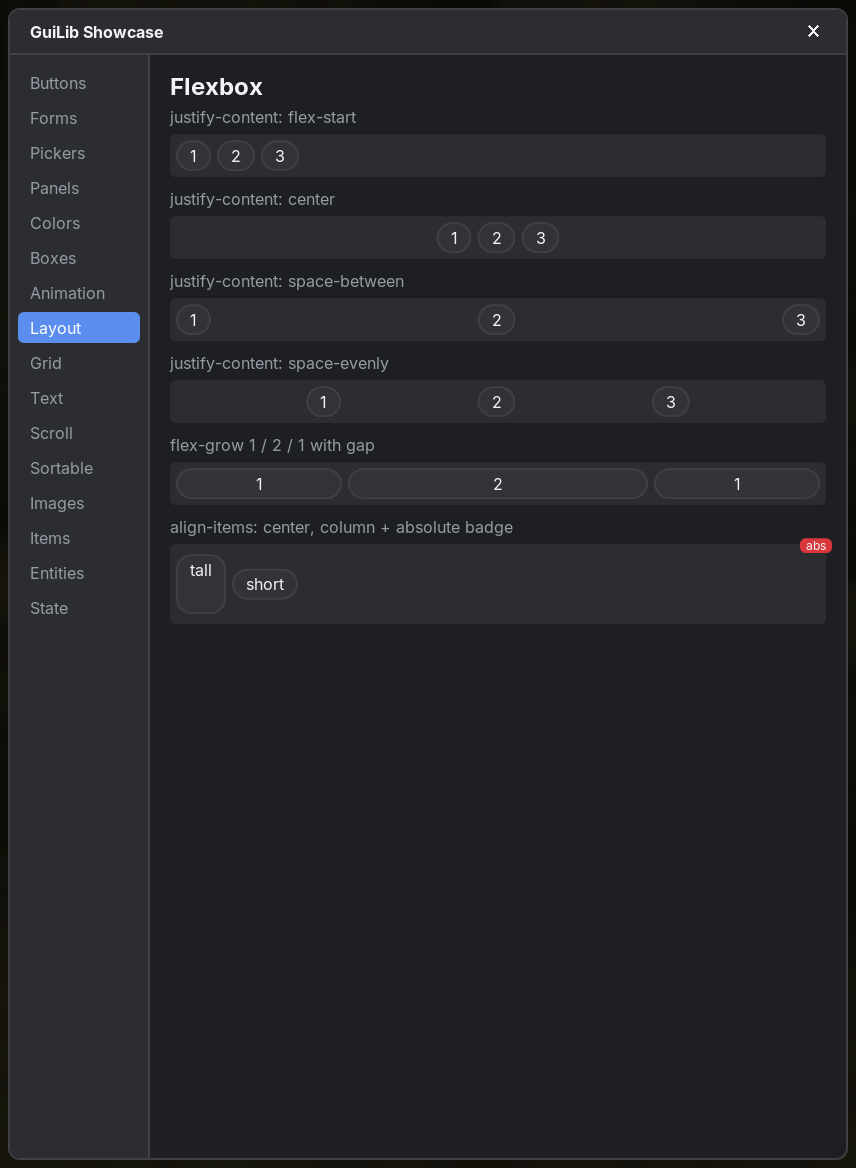
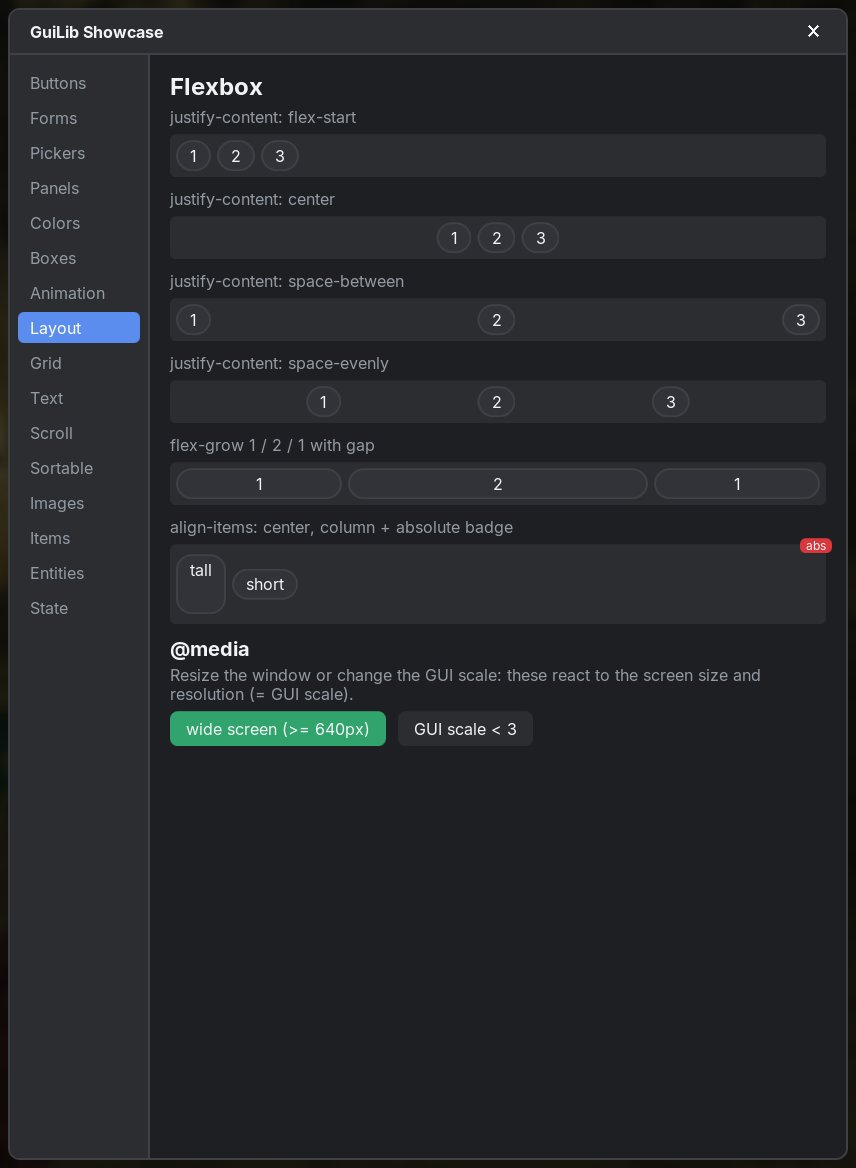
GuiLib docs: @media

Changed region(s): [[0.1822, 0.5548, 0.8808, 0.6473], [0.0, 0.339, 0.0304, 0.4932], [0.486, 0.6164, 0.5771, 0.6473]]

diff --git a/guilib/css.html b/guilib/css.html
@@ -27,7 +27,7 @@
   <main class="content">
     <article>
       <div class="page-head"><div class="eyebrow">Reference</div><h1>CSS</h1><p class="lead">GuiLib implements the parts of CSS that UIs need, with the real cascade. This page lists every supported selector, value and property.</p></div>
-      <h2 id="where-styles-come-from"><a class="anchor" href="#where-styles-come-from">#</a>Where styles come from</h2><ul><li><code>.css</code> files from resources: <code>GuiLib.open(App, stylesheets = listOf(&quot;mymod:ui/app.css&quot;))</code>.</li><li>Inline <code>style</code> strings: <code>div(style = &quot;width: 20px; color: red&quot;)</code>.</li><li>The built-in user-agent stylesheet <code>assets/guilib/css/ua.css</code> (lowest priority) that styles tags and controls.</li><li>Cascade, specificity, <code>!important</code>, inheritance and <code>inherit</code> / <code>initial</code> / <code>unset</code> work like the web.</li><li>Invalid or unsupported CSS is <strong>skipped with a warning</strong> (<code>file:line:col</code>, &quot;did you mean …&quot;), never a crash.</li></ul><h2 id="selectors"><a class="anchor" href="#selectors">#</a>Selectors</h2><div class="table-wrap"><table><thead><tr><th>Kind</th><th>Supported</th></tr></thead><tbody><tr><td>Simple</td><td><code>*</code> <code>tag</code> <code>.class</code> <code>#id</code> <code>[attr]</code> <code>[attr=v]</code> <code>[attr^=v]</code> <code>[attr$=v]</code> <code>[attr*=v]</code>, compounds like <code>button.primary:hover</code></td></tr><tr><td>Combinators</td><td>descendant <code>a b</code>, child <code>a &gt; b</code>, <code>a + b</code>, <code>a ~ b</code>, lists <code>a, b</code></td></tr><tr><td>State</td><td><code>:hover</code> <code>:active</code> <code>:focus</code> <code>:focus-within</code> <code>:disabled</code> <code>:enabled</code> <code>:checked</code></td></tr><tr><td>Structural</td><td><code>:first-child</code> <code>:last-child</code> <code>:only-child</code> <code>:root</code> <code>:not(…)</code> <code>:nth-child()</code> <code>:nth-last-child()</code> <code>:nth-of-type()</code> <code>:nth-last-of-type()</code> (<code>odd</code>, <code>even</code>, <code>3</code>, <code>2n+1</code>, <code>-n+3</code>)</td></tr><tr><td>At-rules</td><td><code>@keyframes</code></td></tr></tbody></table></div><div class="callout warn">Not supported: pseudo-elements (<code>::before</code>), <code>@media</code>, <code>@import</code>, <code>@font-face</code>, <code>:nth-child(… of S)</code>.</div><h2 id="values"><a class="anchor" href="#values">#</a>Values</h2><div class="table-wrap"><table><thead><tr><th>Kind</th><th>Supported</th></tr></thead><tbody><tr><td>Lengths</td><td><code>px</code> (GUI pixels), <code>%</code>, <code>em</code>, <code>rem</code>, <code>vw</code>, <code>vh</code>, <code>vmin</code>, <code>vmax</code>, unitless <code>0</code></td></tr><tr><td>Colors</td><td><code>#rgb</code> <code>#rgba</code> <code>#rrggbb</code> <code>#rrggbbaa</code>, <code>rgb()</code>/<code>rgba()</code> (comma or space syntax), <code>hsl()</code>/<code>hsla()</code>, all named colors, <code>transparent</code>, <code>currentColor</code></td></tr><tr><td>Variables</td><td><code>--name: value</code> with <code>var(--name, fallback)</code></td></tr><tr><td>Math</td><td><code>calc()</code>, <code>min()</code>, <code>max()</code>, <code>clamp()</code>, e.g. <code>width: calc(100% - 2em)</code></td></tr><tr><td>Angles</td><td><code>deg</code> <code>rad</code> <code>grad</code> <code>turn</code></td></tr></tbody></table></div><h2 id="layout"><a class="anchor" href="#layout">#</a>Box model &amp; layout</h2><div class="table-wrap"><table><thead><tr><th>Group</th><th>Properties</th></tr></thead><tbody><tr><td>Box</td><td><code>width</code> <code>height</code> <code>min-width</code> <code>min-height</code> <code>max-width</code> <code>max-height</code> <code>box-sizing</code> <code>margin(-*)</code> <code>padding(-*)</code></td></tr><tr><td>Border</td><td><code>border</code> <code>border-(top|right|bottom|left)</code> <code>border-width</code> <code>border-style</code> <code>border-color</code> <code>border-*-width/-style/-color</code> <code>border-radius</code> <code>border-*-radius</code></td></tr><tr><td>Display</td><td><code>display</code>: <code>block</code> <code>inline</code> <code>inline-block</code> <code>flex</code> <code>inline-flex</code> <code>grid</code> <code>inline-grid</code> <code>none</code></td></tr><tr><td>Position</td><td><code>position</code>: <code>static</code> <code>relative</code> <code>absolute</code> <code>fixed</code>; <code>top</code> <code>right</code> <code>bottom</code> <code>left</code> <code>inset</code> <code>z-index</code></td></tr><tr><td>Overflow</td><td><code>overflow</code> <code>overflow-x</code> <code>overflow-y</code> (<code>visible</code> <code>hidden</code> <code>auto</code> <code>scroll</code>), <code>scrollbar-width</code> (<code>auto</code> <code>thin</code> <code>none</code>), <code>scrollbar-color: &lt;thumb&gt; &lt;track&gt;</code></td></tr><tr><td>Flexbox</td><td><code>flex</code> <code>flex-direction</code> <code>flex-wrap</code> <code>flex-flow</code> <code>flex-grow</code> <code>flex-shrink</code> <code>flex-basis</code> <code>justify-content</code> <code>align-items</code> <code>align-self</code> <code>place-items</code> <code>gap</code> <code>row-gap</code> <code>column-gap</code> <code>order</code>, auto margins</td></tr><tr><td>Grid</td><td><code>grid-template-columns</code> / <code>-rows</code> (<code>px % fr auto min-content max-content minmax() repeat(n | auto-fill | auto-fit, …)</code>), <code>grid-template-areas</code> <code>grid-area</code> <code>grid-row</code> <code>grid-column</code> <code>grid-*-start/-end</code> (lines, negative lines, <code>span n</code>, area names), <code>grid-auto-rows</code> <code>grid-auto-columns</code> <code>grid-auto-flow</code> (<code>row</code> <code>column</code> <code>dense</code>), <code>justify-items</code> <code>justify-self</code> <code>place-self</code></td></tr></tbody></table></div><figure class="shot"><a href="img/grid.png" target="_blank" rel="noopener"><img src="img/grid.png" alt="CSS grid: fr tracks, spans, template areas and auto-fill" loading="lazy"></a><figcaption>CSS grid: fr tracks, spans, template areas and auto-fill</figcaption></figure><figure class="shot"><a href="img/layout.png" target="_blank" rel="noopener"><img src="img/layout.png" alt="Flexbox and positioning" loading="lazy"></a><figcaption>Flexbox and positioning</figcaption></figure><h2 id="text-visuals"><a class="anchor" href="#text-visuals">#</a>Text &amp; visuals</h2><div class="table-wrap"><table><thead><tr><th>Group</th><th>Properties</th></tr></thead><tbody><tr><td>Text</td><td><code>color</code> <code>font-family</code> <code>font-size</code> <code>font-weight</code> <code>font-style</code> <code>line-height</code> <code>text-align</code> <code>white-space</code> <code>text-overflow</code> <code>text-decoration</code> <code>text-shadow</code></td></tr><tr><td>Background</td><td><code>background</code> <code>background-color</code> <code>background-image</code>: comma list of layers (first on top): <code>url(&quot;modid:path.png&quot;)</code>, <code>linear-gradient(…)</code> (angles, <code>to right</code>, stops with positions, hard stops), <code>radial-gradient(…)</code> (<code>circle</code>/<code>ellipse</code>, size keywords, <code>at &lt;position&gt;</code>). Gradients respect <code>border-radius</code>.</td></tr><tr><td>Shadow</td><td><code>box-shadow</code>: <code>none</code> or a comma list of <code>[inset] &lt;x&gt; &lt;y&gt; [&lt;blur&gt; [&lt;spread&gt;]] [&lt;color&gt;]</code> (first on top, color defaults to <code>currentColor</code>). Real Gaussian blur that follows <code>border-radius</code>; outer shadows are never drawn under the box, so translucent backgrounds stay clean. Animatable.</td></tr><tr><td>Visual</td><td><code>opacity</code> <code>visibility</code> <code>object-fit</code></td></tr><tr><td>Interaction</td><td><code>cursor</code> (<code>auto</code> <code>default</code> <code>pointer</code> <code>text</code> <code>not-allowed</code> <code>crosshair</code> <code>move</code> <code>ns-resize</code> <code>ew-resize</code> <code>row-resize</code> <code>col-resize</code> <code>grab</code> <code>grabbing</code>; a drag cursor stays while the left button is held), <code>pointer-events</code>, <code>user-select</code> (parsed only)</td></tr></tbody></table></div><figure class="shot"><a href="img/boxes.png" target="_blank" rel="noopener"><img src="img/boxes.png" alt="Rounded corners, borders, gradients, shadows and opacity, drawn by GuiLib&#x27;s own anti-aliased shader" loading="lazy"></a><figcaption>Rounded corners, borders, gradients, shadows and opacity, drawn by GuiLib&#x27;s own anti-aliased shader</figcaption></figure><h2 id="animation"><a class="anchor" href="#animation">#</a>Animation</h2><p><code>transition</code> (+ <code>-property</code> <code>-duration</code> <code>-timing-function</code> <code>-delay</code>) and <code>animation</code> (+ <code>-name</code> <code>-duration</code> <code>-timing-function</code> <code>-delay</code> <code>-iteration-count</code> <code>-direction</code> <code>-fill-mode</code> <code>-play-state</code>) with <code>@keyframes</code>. Easing: <code>linear</code> <code>ease</code> <code>ease-in</code> <code>ease-out</code> <code>ease-in-out</code> <code>cubic-bezier()</code> <code>steps()</code>.</p><p>Animatable: colors, lengths (also px ↔ % via calc), numbers (<code>opacity</code>, <code>flex-grow</code>, <code>font-size</code> …), radii, <code>line-height</code>, <code>text-shadow</code>, <code>box-shadow</code>, scrollbar colors, gradient stop colors, <code>visibility</code>, <code>transform</code>, <code>transform-origin</code>. Other values switch at 50 % in keyframes and don&#x27;t transition.</p><div class="code"><button class="copy" type="button" aria-label="Copy code">Copy</button><pre><code class="language-css">.card { transition: background-color 150ms, transform 150ms ease-out; }
+      <h2 id="where-styles-come-from"><a class="anchor" href="#where-styles-come-from">#</a>Where styles come from</h2><ul><li><code>.css</code> files from resources: <code>GuiLib.open(App, stylesheets = listOf(&quot;mymod:ui/app.css&quot;))</code>.</li><li>Inline <code>style</code> strings: <code>div(style = &quot;width: 20px; color: red&quot;)</code>.</li><li>The built-in user-agent stylesheet <code>assets/guilib/css/ua.css</code> (lowest priority) that styles tags and controls.</li><li>Cascade, specificity, <code>!important</code>, inheritance and <code>inherit</code> / <code>initial</code> / <code>unset</code> work like the web.</li><li>Invalid or unsupported CSS is <strong>skipped with a warning</strong> (<code>file:line:col</code>, &quot;did you mean …&quot;), never a crash.</li></ul><h2 id="selectors"><a class="anchor" href="#selectors">#</a>Selectors</h2><div class="table-wrap"><table><thead><tr><th>Kind</th><th>Supported</th></tr></thead><tbody><tr><td>Simple</td><td><code>*</code> <code>tag</code> <code>.class</code> <code>#id</code> <code>[attr]</code> <code>[attr=v]</code> <code>[attr^=v]</code> <code>[attr$=v]</code> <code>[attr*=v]</code>, compounds like <code>button.primary:hover</code></td></tr><tr><td>Combinators</td><td>descendant <code>a b</code>, child <code>a &gt; b</code>, <code>a + b</code>, <code>a ~ b</code>, lists <code>a, b</code></td></tr><tr><td>State</td><td><code>:hover</code> <code>:active</code> <code>:focus</code> <code>:focus-within</code> <code>:disabled</code> <code>:enabled</code> <code>:checked</code></td></tr><tr><td>Structural</td><td><code>:first-child</code> <code>:last-child</code> <code>:only-child</code> <code>:root</code> <code>:not(…)</code> <code>:nth-child()</code> <code>:nth-last-child()</code> <code>:nth-of-type()</code> <code>:nth-last-of-type()</code> (<code>odd</code>, <code>even</code>, <code>3</code>, <code>2n+1</code>, <code>-n+3</code>)</td></tr><tr><td>At-rules</td><td><code>@keyframes</code>; <code>@media</code> (nestable): comma lists, <code>not</code>/<code>only</code>, <code>screen</code>/<code>all</code>/<code>print</code>, <code>and</code>/<code>or</code>; features <code>width</code> <code>height</code> <code>aspect-ratio</code> <code>orientation</code> in GUI px, <code>resolution</code> = Minecraft&#x27;s GUI scale (<code>min-resolution: 3dppx</code> or <code>3x</code>), <code>hover</code> (hover), <code>pointer</code> (fine), <code>prefers-reduced-motion</code> (no-preference), <code>prefers-color-scheme</code> (dark); <code>min-</code>/<code>max-</code> prefixes and range syntax <code>(400px &lt;= width &lt; 640px)</code>. Styles update when the window size or GUI scale changes.</td></tr></tbody></table></div><div class="callout warn">Not supported: pseudo-elements (<code>::before</code>), <code>@import</code>, <code>@font-face</code>, <code>@container</code>, <code>@supports</code>, <code>:nth-child(… of S)</code>.</div><h2 id="values"><a class="anchor" href="#values">#</a>Values</h2><div class="table-wrap"><table><thead><tr><th>Kind</th><th>Supported</th></tr></thead><tbody><tr><td>Lengths</td><td><code>px</code> (GUI pixels), <code>%</code>, <code>em</code>, <code>rem</code>, <code>vw</code>, <code>vh</code>, <code>vmin</code>, <code>vmax</code>, unitless <code>0</code></td></tr><tr><td>Colors</td><td><code>#rgb</code> <code>#rgba</code> <code>#rrggbb</code> <code>#rrggbbaa</code>, <code>rgb()</code>/<code>rgba()</code> (comma or space syntax), <code>hsl()</code>/<code>hsla()</code>, all named colors, <code>transparent</code>, <code>currentColor</code></td></tr><tr><td>Variables</td><td><code>--name: value</code> with <code>var(--name, fallback)</code></td></tr><tr><td>Math</td><td><code>calc()</code>, <code>min()</code>, <code>max()</code>, <code>clamp()</code>, e.g. <code>width: calc(100% - 2em)</code></td></tr><tr><td>Angles</td><td><code>deg</code> <code>rad</code> <code>grad</code> <code>turn</code></td></tr></tbody></table></div><h2 id="layout"><a class="anchor" href="#layout">#</a>Box model &amp; layout</h2><div class="table-wrap"><table><thead><tr><th>Group</th><th>Properties</th></tr></thead><tbody><tr><td>Box</td><td><code>width</code> <code>height</code> <code>min-width</code> <code>min-height</code> <code>max-width</code> <code>max-height</code> <code>box-sizing</code> <code>margin(-*)</code> <code>padding(-*)</code></td></tr><tr><td>Border</td><td><code>border</code> <code>border-(top|right|bottom|left)</code> <code>border-width</code> <code>border-style</code> <code>border-color</code> <code>border-*-width/-style/-color</code> <code>border-radius</code> <code>border-*-radius</code></td></tr><tr><td>Display</td><td><code>display</code>: <code>block</code> <code>inline</code> <code>inline-block</code> <code>flex</code> <code>inline-flex</code> <code>grid</code> <code>inline-grid</code> <code>none</code></td></tr><tr><td>Position</td><td><code>position</code>: <code>static</code> <code>relative</code> <code>absolute</code> <code>fixed</code>; <code>top</code> <code>right</code> <code>bottom</code> <code>left</code> <code>inset</code> <code>z-index</code></td></tr><tr><td>Overflow</td><td><code>overflow</code> <code>overflow-x</code> <code>overflow-y</code> (<code>visible</code> <code>hidden</code> <code>auto</code> <code>scroll</code>), <code>scrollbar-width</code> (<code>auto</code> <code>thin</code> <code>none</code>), <code>scrollbar-color: &lt;thumb&gt; &lt;track&gt;</code></td></tr><tr><td>Flexbox</td><td><code>flex</code> <code>flex-direction</code> <code>flex-wrap</code> <code>flex-flow</code> <code>flex-grow</code> <code>flex-shrink</code> <code>flex-basis</code> <code>justify-content</code> <code>align-items</code> <code>align-self</code> <code>place-items</code> <code>gap</code> <code>row-gap</code> <code>column-gap</code> <code>order</code>, auto margins</td></tr><tr><td>Grid</td><td><code>grid-template-columns</code> / <code>-rows</code> (<code>px % fr auto min-content max-content minmax() repeat(n | auto-fill | auto-fit, …)</code>), <code>grid-template-areas</code> <code>grid-area</code> <code>grid-row</code> <code>grid-column</code> <code>grid-*-start/-end</code> (lines, negative lines, <code>span n</code>, area names), <code>grid-auto-rows</code> <code>grid-auto-columns</code> <code>grid-auto-flow</code> (<code>row</code> <code>column</code> <code>dense</code>), <code>justify-items</code> <code>justify-self</code> <code>place-self</code></td></tr></tbody></table></div><figure class="shot"><a href="img/grid.png" target="_blank" rel="noopener"><img src="img/grid.png" alt="CSS grid: fr tracks, spans, template areas and auto-fill" loading="lazy"></a><figcaption>CSS grid: fr tracks, spans, template areas and auto-fill</figcaption></figure><figure class="shot"><a href="img/layout.png" target="_blank" rel="noopener"><img src="img/layout.png" alt="Flexbox and positioning" loading="lazy"></a><figcaption>Flexbox and positioning</figcaption></figure><h2 id="text-visuals"><a class="anchor" href="#text-visuals">#</a>Text &amp; visuals</h2><div class="table-wrap"><table><thead><tr><th>Group</th><th>Properties</th></tr></thead><tbody><tr><td>Text</td><td><code>color</code> <code>font-family</code> <code>font-size</code> <code>font-weight</code> <code>font-style</code> <code>line-height</code> <code>text-align</code> <code>white-space</code> <code>text-overflow</code> <code>text-decoration</code> <code>text-shadow</code></td></tr><tr><td>Background</td><td><code>background</code> <code>background-color</code> <code>background-image</code>: comma list of layers (first on top): <code>url(&quot;modid:path.png&quot;)</code>, <code>linear-gradient(…)</code> (angles, <code>to right</code>, stops with positions, hard stops), <code>radial-gradient(…)</code> (<code>circle</code>/<code>ellipse</code>, size keywords, <code>at &lt;position&gt;</code>). Gradients respect <code>border-radius</code>.</td></tr><tr><td>Shadow</td><td><code>box-shadow</code>: <code>none</code> or a comma list of <code>[inset] &lt;x&gt; &lt;y&gt; [&lt;blur&gt; [&lt;spread&gt;]] [&lt;color&gt;]</code> (first on top, color defaults to <code>currentColor</code>). Real Gaussian blur that follows <code>border-radius</code>; outer shadows are never drawn under the box, so translucent backgrounds stay clean. Animatable.</td></tr><tr><td>Visual</td><td><code>opacity</code> <code>visibility</code> <code>object-fit</code></td></tr><tr><td>Interaction</td><td><code>cursor</code> (<code>auto</code> <code>default</code> <code>pointer</code> <code>text</code> <code>not-allowed</code> <code>crosshair</code> <code>move</code> <code>ns-resize</code> <code>ew-resize</code> <code>row-resize</code> <code>col-resize</code> <code>grab</code> <code>grabbing</code>; a drag cursor stays while the left button is held), <code>pointer-events</code>, <code>user-select</code> (parsed only)</td></tr></tbody></table></div><figure class="shot"><a href="img/boxes.png" target="_blank" rel="noopener"><img src="img/boxes.png" alt="Rounded corners, borders, gradients, shadows and opacity, drawn by GuiLib&#x27;s own anti-aliased shader" loading="lazy"></a><figcaption>Rounded corners, borders, gradients, shadows and opacity, drawn by GuiLib&#x27;s own anti-aliased shader</figcaption></figure><h2 id="animation"><a class="anchor" href="#animation">#</a>Animation</h2><p><code>transition</code> (+ <code>-property</code> <code>-duration</code> <code>-timing-function</code> <code>-delay</code>) and <code>animation</code> (+ <code>-name</code> <code>-duration</code> <code>-timing-function</code> <code>-delay</code> <code>-iteration-count</code> <code>-direction</code> <code>-fill-mode</code> <code>-play-state</code>) with <code>@keyframes</code>. Easing: <code>linear</code> <code>ease</code> <code>ease-in</code> <code>ease-out</code> <code>ease-in-out</code> <code>cubic-bezier()</code> <code>steps()</code>.</p><p>Animatable: colors, lengths (also px ↔ % via calc), numbers (<code>opacity</code>, <code>flex-grow</code>, <code>font-size</code> …), radii, <code>line-height</code>, <code>text-shadow</code>, <code>box-shadow</code>, scrollbar colors, gradient stop colors, <code>visibility</code>, <code>transform</code>, <code>transform-origin</code>. Other values switch at 50 % in keyframes and don&#x27;t transition.</p><div class="code"><button class="copy" type="button" aria-label="Copy code">Copy</button><pre><code class="language-css">.card { transition: background-color 150ms, transform 150ms ease-out; }
 .card:hover { background-color: #333; transform: scale(1.05); }
 
 @keyframes spin { to { transform: rotate(360deg); } }

diff --git a/guilib/differences.html b/guilib/differences.html
@@ -27,7 +27,7 @@
   <main class="content">
     <article>
       <div class="page-head"><div class="eyebrow">Guide</div><h1>Differences from the web</h1><p class="lead">GuiLib follows the web wherever it can. These are the places where it doesn&#x27;t. Read this once; it saves time.</p></div>
-      <h2 id="units-defaults"><a class="anchor" href="#units-defaults">#</a>Units &amp; defaults</h2><ul><li><strong><code>px</code> means GUI pixels</strong> (scaled by Minecraft&#x27;s GUI scale). The default <code>font-size</code> is <strong>8px</strong> and <code>1rem = 8px</code>, so a web value like <code>font-size: 14px</code> is large here; typical UI text is 7–10px.</li><li><code>body</code> <strong>is the screen</strong>: always exactly viewport-sized; there is no <code>html</code>; <code>:root</code> matches <code>body</code>.</li><li><code>box-sizing: border-box</code> is the <strong>default</strong> for everything.</li><li><strong>No margin collapsing</strong>: vertical margins add up.</li><li>The default text color is light (<code>#f2f3f5</code>), the default font Inter.</li><li><code>border-width</code> defaults to 1px; like the web, a border without <code>border-style</code> draws nothing.</li></ul><h2 id="api"><a class="anchor" href="#api">#</a>API</h2><ul><li><code>style</code> is a CSS <strong>string</strong>, not an object. Event handlers are Kotlin lambdas (<code>onClick = { e -&gt; … }</code>).</li><li><code>useEffect { }</code> without deps runs <strong>once</strong> (like <code>[]</code>); there is no &quot;run after every render&quot; variant.</li><li><code>onChange</code> on inputs, selects, checkboxes, switches and sliders fires on every change (React behaviour); sliders also have <code>onChangeEnd</code>.</li></ul><h2 id="rendering"><a class="anchor" href="#rendering">#</a>Rendering</h2><ul><li><code>overflow: hidden</code> clips <strong>rectangularly</strong>. With <code>border-radius</code> on the clipping element, child backgrounds that sit exactly in one of its corners (headers, footers, sidebars) are rounded to match; other content is not cut to the curve.</li><li>Per-side borders on a box with <code>border-radius</code> are drawn as straight strips that stop at the rounded corners. Uniform borders are exact.</li><li>Inline elements (<code>span</code>, <code>code</code>, …) paint background, border and shadow per line like the web; vertical padding/border don&#x27;t change the line height. Use <code>display: inline-block</code> for boxes that must not wrap or need a size.</li><li>Every positioned element (<code>relative</code> / <code>absolute</code> / <code>fixed</code>) is its own paint layer; <code>z-index</code> orders layers among siblings. Use <code>portal { }</code> for things that must be on top of everything. <code>position: fixed</code> ignores ancestors&#x27; <code>transform</code>.</li><li><code>display: inline-block</code>, <code>img</code> and <code>item</code> sit on the text baseline; <code>vertical-align</code> is not supported.</li><li>Flex items have <code>min-width: auto</code> like the web; for ellipsis inside flex, set <code>min-width: 0</code>.</li></ul><h2 id="text"><a class="anchor" href="#text">#</a>Text</h2><ul><li>Minecraft <code>§</code> codes work in all text. Text inputs show what the user types literally (<code>§</code> included).</li><li>No kerning; <code>text-align: justify</code> behaves like <code>left</code>.</li><li>No right-to-left or complex-script shaping. Characters missing from the font (CJK, emoji, …) fall back to Minecraft&#x27;s font.</li><li>Rotated text is drawn at its unrotated resolution (slightly soft).</li></ul><h2 id="not-supported-yet"><a class="anchor" href="#not-supported-yet">#</a>Not supported (yet)</h2><ul><li>3D transforms (a <code>transform</code> containing them is ignored), <code>repeating-*-gradient</code>, <code>conic-gradient</code>.</li><li><code>@media</code>, <code>@import</code>, <code>@font-face</code> (register fonts with <code>FontManager</code>), pseudo-elements (<code>::before</code>), <code>:nth-child(… of S)</code>.</li><li><code>float</code>, <code>align-content</code>, <code>vertical-align</code>, <code>letter-spacing</code>, subgrid, named grid lines. Grid <code>auto-fit</code> behaves like <code>auto-fill</code>.</li><li>Images are resource locations (PNG, SVG or GIF), no URLs.</li></ul>
+      <h2 id="units-defaults"><a class="anchor" href="#units-defaults">#</a>Units &amp; defaults</h2><ul><li><strong><code>px</code> means GUI pixels</strong> (scaled by Minecraft&#x27;s GUI scale). The default <code>font-size</code> is <strong>8px</strong> and <code>1rem = 8px</code>, so a web value like <code>font-size: 14px</code> is large here; typical UI text is 7–10px.</li><li><code>body</code> <strong>is the screen</strong>: always exactly viewport-sized; there is no <code>html</code>; <code>:root</code> matches <code>body</code>.</li><li><code>box-sizing: border-box</code> is the <strong>default</strong> for everything.</li><li><strong>No margin collapsing</strong>: vertical margins add up.</li><li>The default text color is light (<code>#f2f3f5</code>), the default font Inter.</li><li><code>border-width</code> defaults to 1px; like the web, a border without <code>border-style</code> draws nothing.</li></ul><h2 id="api"><a class="anchor" href="#api">#</a>API</h2><ul><li><code>style</code> is a CSS <strong>string</strong>, not an object. Event handlers are Kotlin lambdas (<code>onClick = { e -&gt; … }</code>).</li><li><code>useEffect { }</code> without deps runs <strong>once</strong> (like <code>[]</code>); there is no &quot;run after every render&quot; variant.</li><li><code>onChange</code> on inputs, selects, checkboxes, switches and sliders fires on every change (React behaviour); sliders also have <code>onChangeEnd</code>.</li></ul><h2 id="rendering"><a class="anchor" href="#rendering">#</a>Rendering</h2><ul><li><code>overflow: hidden</code> clips <strong>rectangularly</strong>. With <code>border-radius</code> on the clipping element, child backgrounds that sit exactly in one of its corners (headers, footers, sidebars) are rounded to match; other content is not cut to the curve.</li><li>Per-side borders on a box with <code>border-radius</code> are drawn as straight strips that stop at the rounded corners. Uniform borders are exact.</li><li>Inline elements (<code>span</code>, <code>code</code>, …) paint background, border and shadow per line like the web; vertical padding/border don&#x27;t change the line height. Use <code>display: inline-block</code> for boxes that must not wrap or need a size.</li><li>Every positioned element (<code>relative</code> / <code>absolute</code> / <code>fixed</code>) is its own paint layer; <code>z-index</code> orders layers among siblings. Use <code>portal { }</code> for things that must be on top of everything. <code>position: fixed</code> ignores ancestors&#x27; <code>transform</code>.</li><li><code>display: inline-block</code>, <code>img</code> and <code>item</code> sit on the text baseline; <code>vertical-align</code> is not supported.</li><li>Flex items have <code>min-width: auto</code> like the web; for ellipsis inside flex, set <code>min-width: 0</code>.</li></ul><h2 id="text"><a class="anchor" href="#text">#</a>Text</h2><ul><li>Minecraft <code>§</code> codes work in all text. Text inputs show what the user types literally (<code>§</code> included).</li><li>No kerning; <code>text-align: justify</code> behaves like <code>left</code>.</li><li>No right-to-left or complex-script shaping. Characters missing from the font (CJK, emoji, …) fall back to Minecraft&#x27;s font.</li><li>Rotated text is drawn at its unrotated resolution (slightly soft).</li></ul><h2 id="not-supported-yet"><a class="anchor" href="#not-supported-yet">#</a>Not supported (yet)</h2><ul><li>3D transforms (a <code>transform</code> containing them is ignored), <code>repeating-*-gradient</code>, <code>conic-gradient</code>.</li><li><code>@import</code>, <code>@font-face</code> (register fonts with <code>FontManager</code>), pseudo-elements (<code>::before</code>), <code>:nth-child(… of S)</code>.</li><li><code>float</code>, <code>align-content</code>, <code>vertical-align</code>, <code>letter-spacing</code>, subgrid, named grid lines. Grid <code>auto-fit</code> behaves like <code>auto-fill</code>.</li><li>Images are resource locations (PNG, SVG or GIF), no URLs.</li></ul>
       <nav class="pager"><a class="prev" href="components.html"><span>Previous</span>Components &amp; hooks</a><a class="next" href="recipes.html"><span>Next</span>Recipes</a></nav>
     </article>
     <footer class="footer">GuiLib 0.3.0 · Minecraft 26.1.2 / 26.2 (Fabric) · LGPL-3.0 · Screenshots taken in-game at GUI scale 2.</footer>

diff --git a/docs-src/pages.py b/docs-src/pages.py
@@ -857,8 +857,8 @@ css = Page("css", "CSS", "Reference", (
         ["Combinators", "descendant `a b`, child `a > b`, `a + b`, `a ~ b`, lists `a, b`"],
         ["State", "`:hover` `:active` `:focus` `:focus-within` `:disabled` `:enabled` `:checked`"],
         ["Structural", "`:first-child` `:last-child` `:only-child` `:root` `:not(…)` `:nth-child()` `:nth-last-child()` `:nth-of-type()` `:nth-last-of-type()` (`odd`, `even`, `3`, `2n+1`, `-n+3`)"],
-        ["At-rules", "`@keyframes`"],
-    ]), note("Not supported: pseudo-elements (`::before`), `@media`, `@import`, `@font-face`, `:nth-child(… of S)`.", "warn")),
+        ["At-rules", "`@keyframes`; `@media` (nestable): comma lists, `not`/`only`, `screen`/`all`/`print`, `and`/`or`; features `width` `height` `aspect-ratio` `orientation` in GUI px, `resolution` = Minecraft's GUI scale (`min-resolution: 3dppx` or `3x`), `hover` (hover), `pointer` (fine), `prefers-reduced-motion` (no-preference), `prefers-color-scheme` (dark); `min-`/`max-` prefixes and range syntax `(400px <= width < 640px)`. Styles update when the window size or GUI scale changes."],
+    ]), note("Not supported: pseudo-elements (`::before`), `@import`, `@font-face`, `@container`, `@supports`, `:nth-child(… of S)`.", "warn")),
     h2("Values"),
     raw(table(["Kind", "Supported"], [
         ["Lengths", "`px` (GUI pixels), `%`, `em`, `rem`, `vw`, `vh`, `vmin`, `vmax`, unitless `0`"],
@@ -960,7 +960,7 @@ differences = Page("differences", "Differences from the web", "Guide", (
            "Rotated text is drawn at its unrotated resolution (slightly soft).")),
     h2("Not supported (yet)"),
     raw(ul("3D transforms (a `transform` containing them is ignored), `repeating-*-gradient`, `conic-gradient`.",
-           "`@media`, `@import`, `@font-face` (register fonts with `FontManager`), pseudo-elements (`::before`), `:nth-child(… of S)`.",
+           "`@import`, `@font-face` (register fonts with `FontManager`), pseudo-elements (`::before`), `:nth-child(… of S)`.",
            "`float`, `align-content`, `vertical-align`, `letter-spacing`, subgrid, named grid lines. Grid `auto-fit` behaves like `auto-fill`.",
            "Images are resource locations (PNG, SVG or GIF), no URLs.")),
 ])
